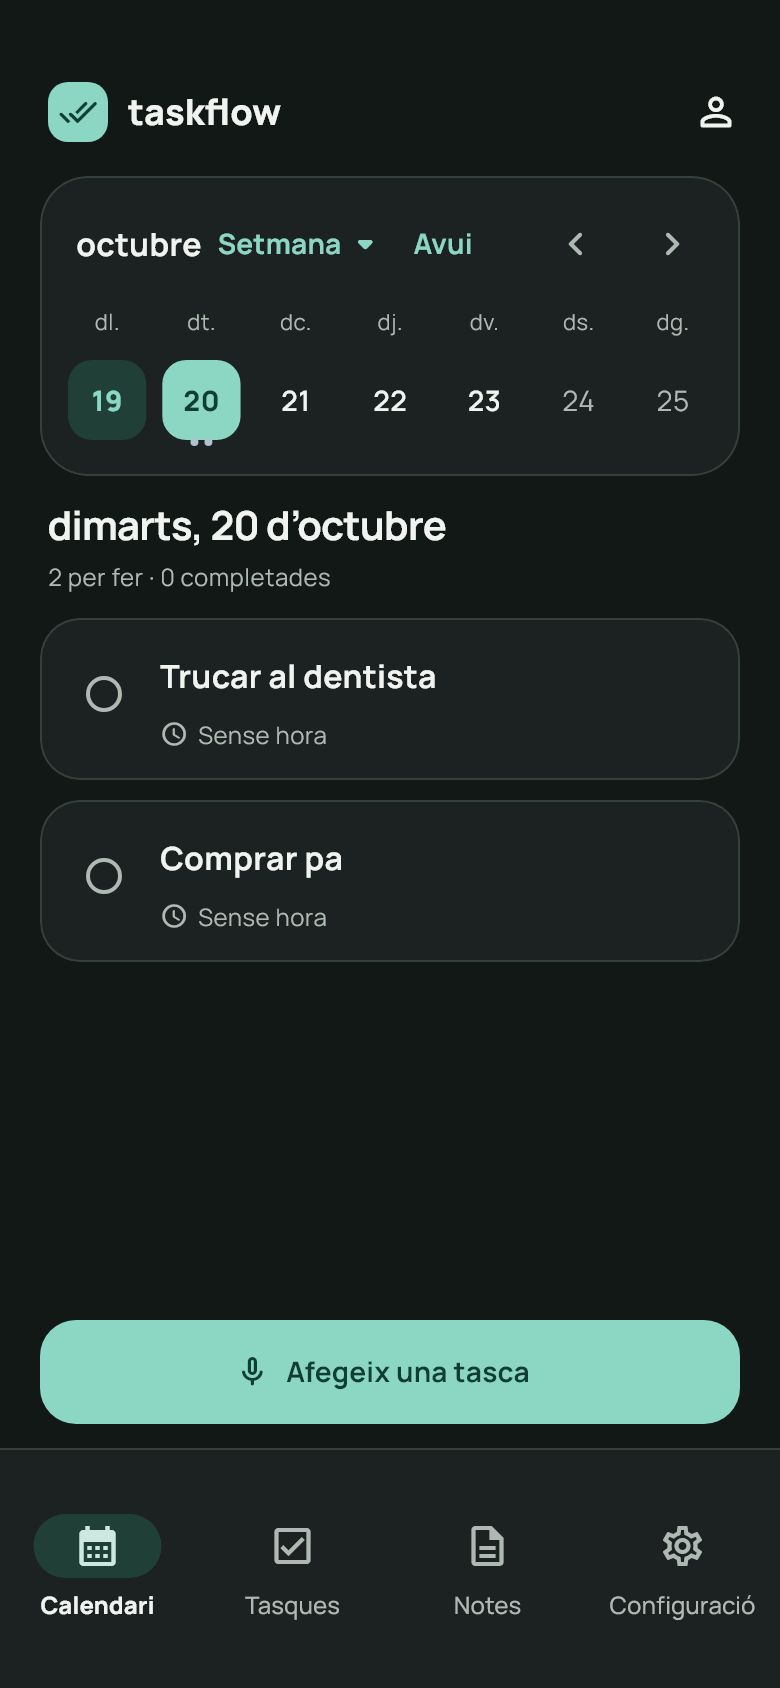
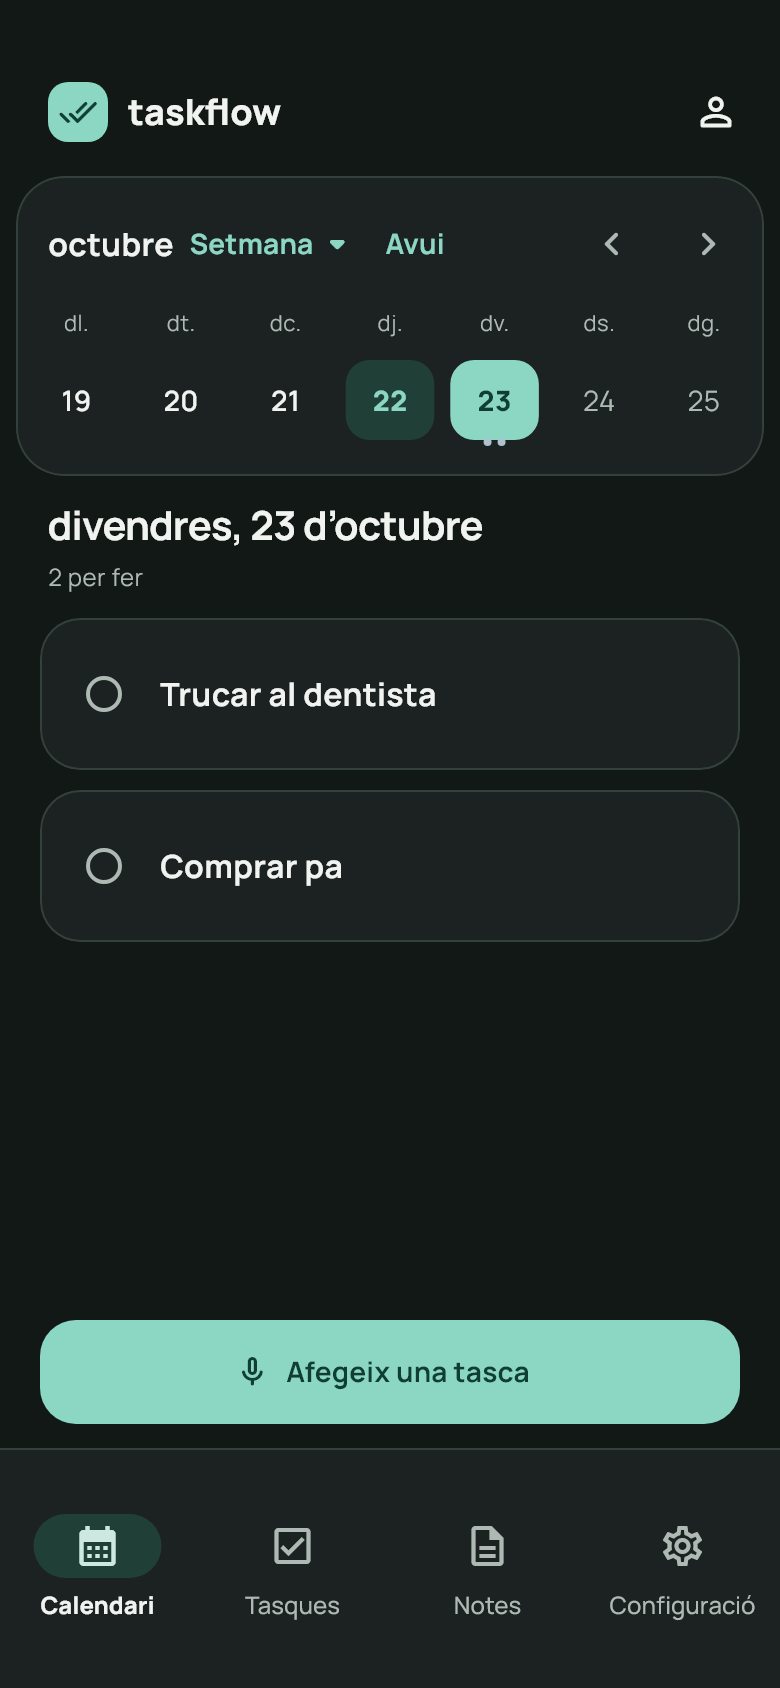
UX web loop 2026-10-21-changes (b2): the hero images, from today's app
WEB-5: the six hero and link-preview images, re-rendered from the app
at 399c0d0 (WD4) and copied in unchanged: the Calendar on tomorrow
with «Llamar al dentista» and «Comprar pan» and one «Añadir tarea»,
without the «· 0 completadas» and «Sin hora» lines the app removed. A
test checks all six are 780 × 1688 and none is the old render. Waiting
on device checks: legibility on a phone, the WhatsApp preview after a
deploy, and a fresh render right before publishing.

First run of the loop's new runner (builds and Playwright on WSL's own
disk).

diff --git a/tests/ux-web-home.spec.ts b/tests/ux-web-home.spec.ts
@@ -3,6 +3,7 @@
 // the live demo moves under the hero), WP16 (the hero) and WP33 (the header and main half of
 // WEB-6; the held half is in ux-web-frame, ux-web-voice and ux-web-legal). See
 // tests/support/ux-web.ts.
+import { createHash } from "node:crypto";
 import { existsSync, readdirSync, readFileSync, statSync } from "node:fs";
 import path from "node:path";
 import {
@@ -155,6 +156,33 @@ for (const theme of THEMES) {
     });
   });
 }
+
+// WEB-5 (run 2026-10-21-changes, WP56): the hero images were rendered from the app again after
+// it dropped the "· 0 completed" count and the "Any time" line under untimed tasks. What the
+// new images show is a render check (home.*.fold.png, opengraph-image*.png); this keeps the
+// files from going back to the 2026-10-19 render that showed those rows. A later re-render
+// from the app (WEB-114, WD13) passes, as long as it keeps the app's 390-point, 2x size.
+const STALE_HERO_SHA256: Record<string, string> = {
[6 lines of base64/hex data omitted]
+};
+
+test("WEB-5: every hero image is a 780 × 1688 app render, not the 2026-10-19 one that showed rows the app removed", async ({}, testInfo) => {
+  test.skip(testInfo.project.name !== "desktop", "a file check: once is enough");
+  for (const language of LANGUAGES)
+    for (const theme of THEMES) {
+      const name = `${language}-${theme}`;
+      const bytes = readFileSync(path.join(ROOT, "public", "images", `hero-calendar-${name}.png`));
+      expect(bytes.subarray(1, 4).toString("latin1"), `${name}: a PNG`).toBe("PNG");
+      expect([bytes.readUInt32BE(16), bytes.readUInt32BE(20)], `${name}: size`).toEqual([780, 1688]);
+      const sha = createHash("sha256").update(bytes).digest("hex");
+      expect(sha, `${name}: still the 2026-10-19 render`).not.toBe(STALE_HERO_SHA256[name]);
+    }
+});
 
 // The footer and /privacy/ half of this check proves a held change (WP33, Footer.tsx): it
 // lives in tests/ux-web-frame.spec.ts, so this committed file depends on no held work.
